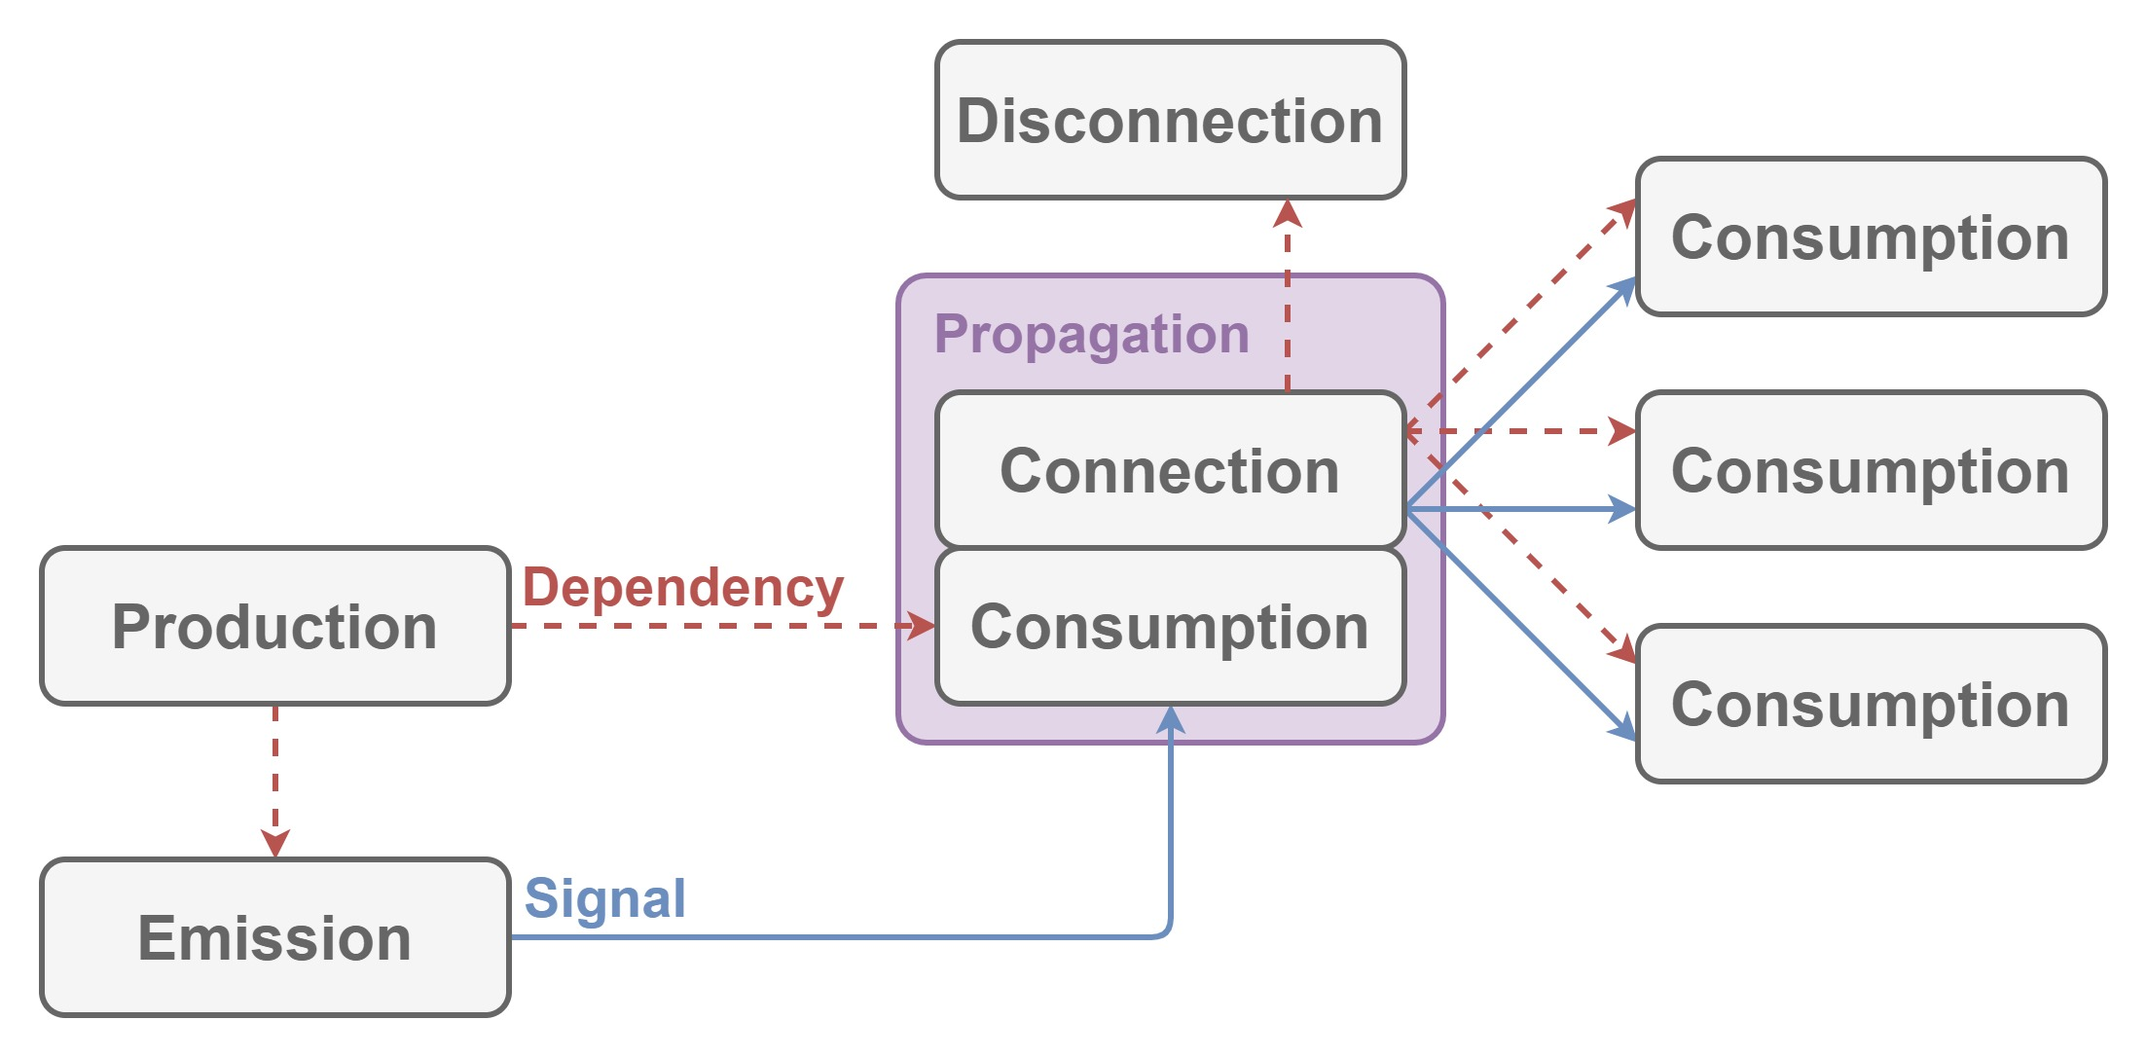
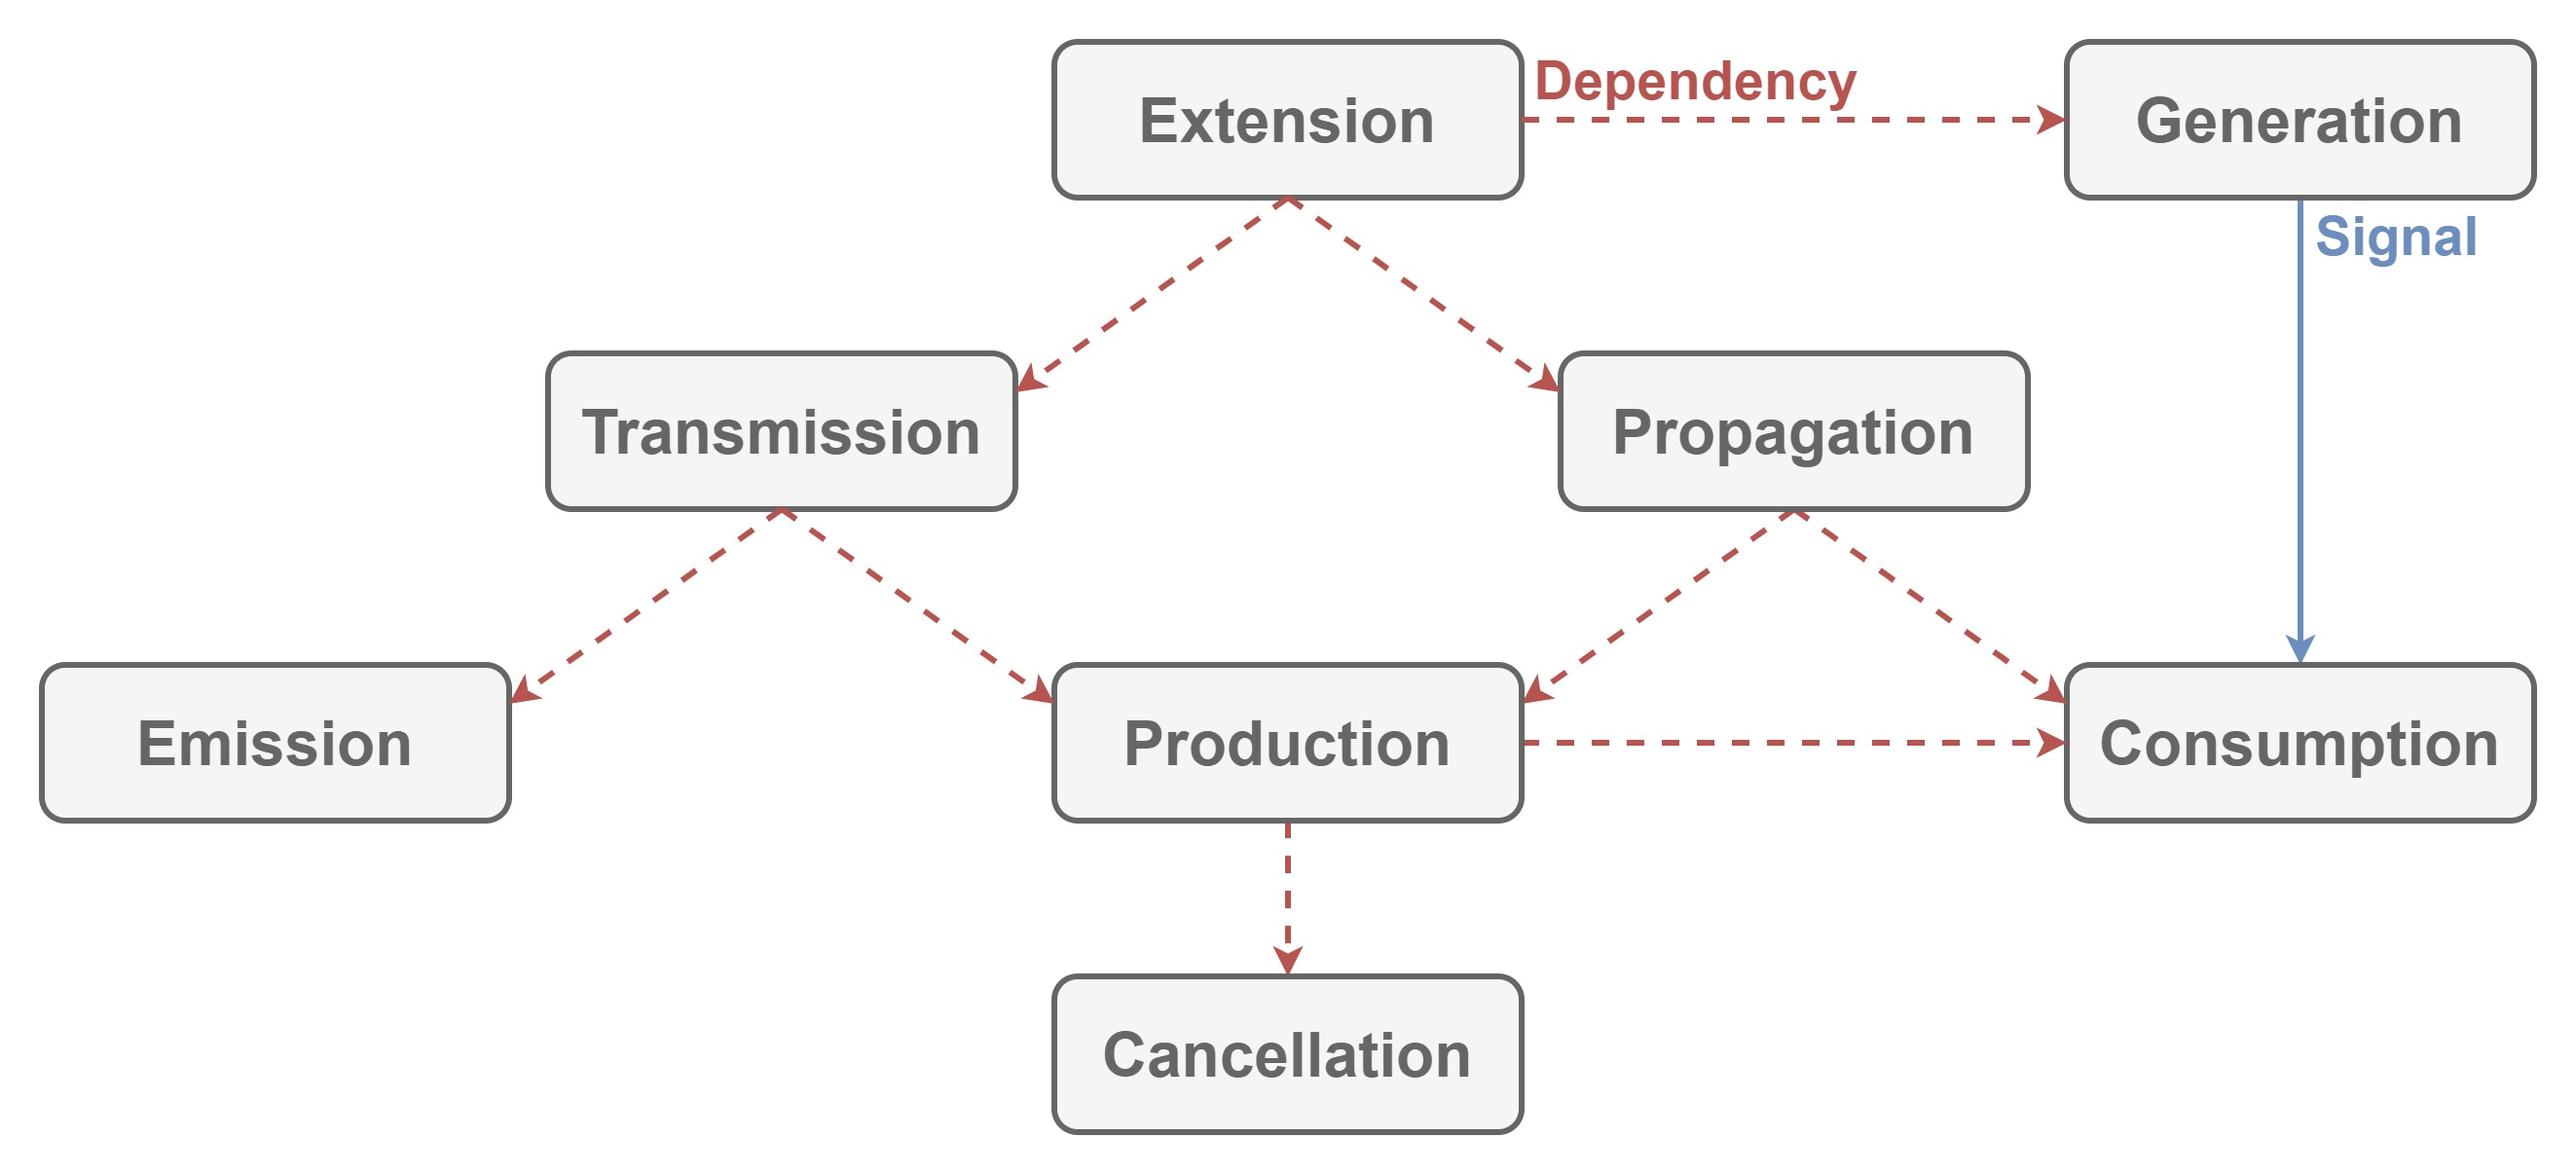
Modify document for Signalization

diff --git a/Documentation/Signalization.md b/Documentation/Signalization.md
@@ -1,11 +1,12 @@
 # Signalization
 
-Signalization defines how to
+This module defines how to
 
+- generate
 - send
 - receive
 
-data for I/O in applications.
+data for user's input/output in XR applications.
 
 ## Dependencies
 
@@ -17,27 +18,32 @@ Nothing.
 
 | Word | Abstraction |
 |:-----------|:------------|
-| Signal | Data for I/O. |
+| Signal | Data for user's input/output. |
 | Consumption | Receives `Signal`. |
 | Production | Sends `Signal` to `Consumption`. |
+| Cancellation | Token to stop producing. |
+| Propagation | Collects `Consumption` to distribute `Signal`. |
 | Emission | Token to send `Signal`. |
-| Connection | Collects `Consumption`. |
-| Disconnection | Token to disconnect. |
-| Propagation | Distributes `Signal`. |
+| Transmission | Collects `Consumption` to send `Signal`. |
+| Generation | Creates `Signal`. |
 
-`Consumption` receives `Signal` for interaction between devices and systems.
-`Production` produces `Emission` token that sends `Signal` to `Consumption`.
-Every time `Emission` token is executed, generated `Signal` is sent to `Consumption`.
+A `Consumption` receives a `Signal` for interaction between devices and systems.
+A `Production` sends a `Signal` to each of `Consumption`.
+When the `Production` starts to send, it provides `Cancellation` token to stop sending.
 
-`Connection` collects `Consumption` to distribute `Signal` sent when `Emission` is executed.
-When `Connection` connects to `Consumption`, it provides `Disconnection` token to disconnect `Consumption` from `Connection`.
-`Propagation` is `Consumption` and `Connection`.
-When `Propagation` consumes `Signal`, it distributes `Signal` to each connected `Consumption`.
+A `Propagation` is `Consumption` and `Production`.
+When the `Propagation` receives a `Signal`, it distributes the `Signal` to each `Consumption`.
+
+A `Emission` is token to send `Signal`, and a `Generation` is how to generate a `Signal`.
+A `Transmission` is `Emission` and `Production`.
+The `Transmission` has the `Generation`.
+So every time the `Transmission` Emits, the `Generation` generates a `Signal`, then it sends the `Signal` to each of `Consumption`.
 
 ## Implementation
 
 Nothing because this module only defines how to
 
+- generate
 - send
 - receive
 
